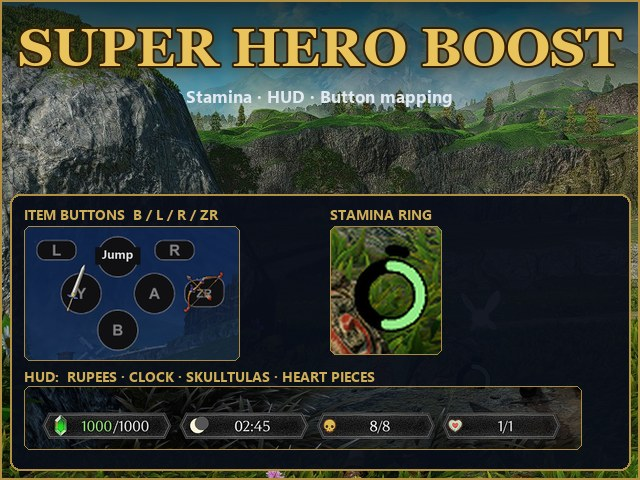
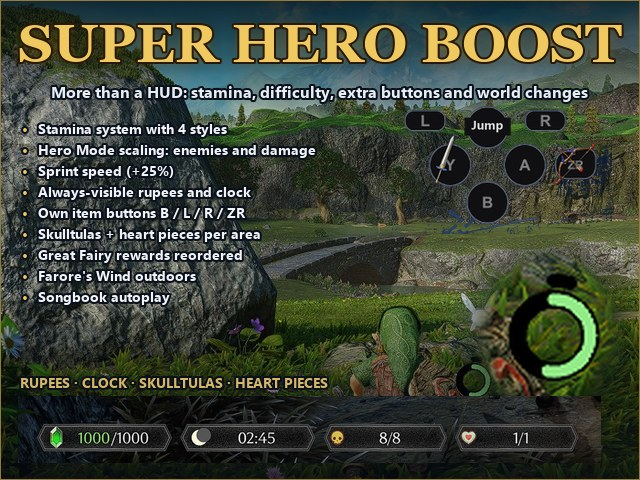
Docs: free-layout thumbnail and the GameBanana listing text

diff --git a/docs/GAMEBANANA.md b/docs/GAMEBANANA.md
@@ -1,0 +1,76 @@
+# GameBanana listing
+
+**Title:** Super Hero Boost
+
+**Tagline:** More than a HUD — stamina, Hero Mode difficulty, extra item buttons and world changes, all configurable from a desktop app.
+
+**Alternative taglines**
+
+- Stamina, Hero Mode scaling, an always-visible HUD and your own item buttons.
+- A complete gameplay and HUD overhaul you can configure without touching a single file.
+
+## Summary
+
+Super Hero Boost is a gameplay and HUD module for the *Ocarina of Time* remake (update **v131072**) plus a
+companion app, **SuperHeroBoostConfig**, that writes the configuration for you: no recompiling, no manual file
+editing, and a one-click install into your emulator's mod folder. Stamina, difficulty, the HUD, the extra buttons
+and the optional world changes are all switches in the app, and the installer patches the prebuilt module with the
+profile you pick.
+
+## Features
+
+**Stamina**
+- Four styles: hardcore (every action costs), combat only, sprint only, or advanced (choose which actions cost).
+- Exhaustion and regeneration, with individual costs for rolling, jumping, attacking, shooting, sprinting and
+  blocking with the shield.
+- Stamina ring next to Link, drawn with the game's own textures.
+
+**Difficulty**
+- Enemy health and damage taken multipliers (x1 to x3).
+- No heart drops: hearts become green rupees.
+
+**Movement**
+- Configurable sprint speed (+25% by default).
+
+**HUD**
+- Always-visible rupee counter and clock (off / 12 h / 24 h) with the game's native plate look.
+- Per-area counter for Gold Skulltulas and heart pieces. It reads the save's persistent key set, so the count
+  survives leaving and re-entering an area.
+
+**Buttons**
+- B, L, R and ZR item buttons on the HUD, assignable from the pause menu's Items tab by pressing X / L / R.
+- Switch, PlayStation and Xbox button styles.
+- Extended layout (B, L, R, ZR, X, Y, A and the sword) or simple layout (only the assignable buttons, with B
+  centred).
+- L as an item button or as the game's own item selector.
+- Songbook autoplay: pick a learned song in the native songbook (ZL) and Link plays it with its effect.
+
+**World changes**
+- The three Great Fairy magic rewards are reordered: Hyrule Castle (child) gives **Nayru's Love**, Death Mountain
+  Crater gives the **magic spin attack** and Desert Colossus gives **double magic**.
+- **Farore's Wind** warp points can be placed outdoors.
+- Known bug: press up and down a couple of times before the teleport menu responds.
+
+**Profiles**
+- Recommended, Base, Hero Mode, Hero + Stamina, Hero Explorer, Super Hero, Ultra Hero, Survival, World changes and
+  two beta combinations, plus a fully custom setup.
+
+**Beta (optional, generated from your own game files)**
+- Enemy duplication (Option A).
+- Enemy speed x2.
+
+**Companion app**
+- GUI for Windows, macOS and Linux (Python 3.10+ with Tkinter) and a command-line mode.
+- Translations: Spanish, English, Portuguese, French, German and Italian.
+
+## Requirements
+
+- The game, update **v131072**.
+- An emulator that loads mods from `user/load/0400486024DEC000` (or a custom load folder, which the app also
+  detects).
+- Close the game before installing or uninstalling. Back up your save.
+
+## Links
+
+- Source and issues: https://github.com/kuribox/OOT-SuperHeroBoostMod
+- Cover art: `docs/portada.png` (1920x1080) and `docs/portada-mini.jpg` (640x480, for the listing thumbnail).
